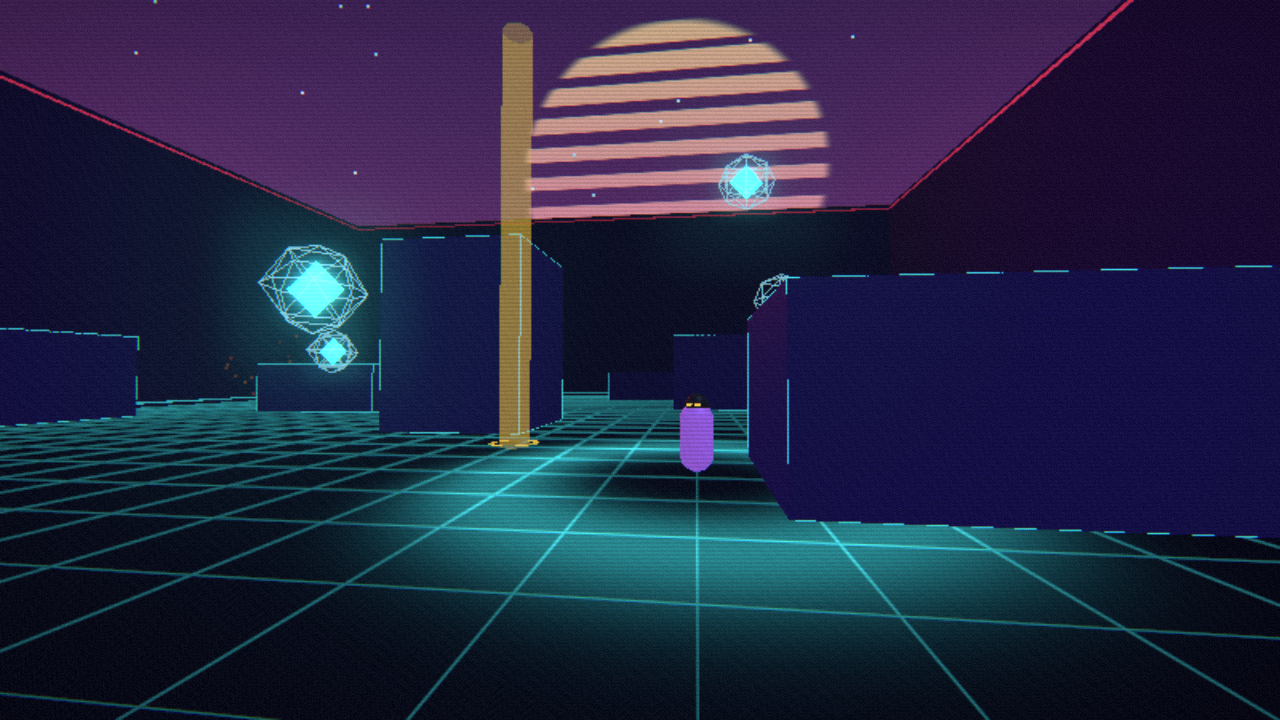
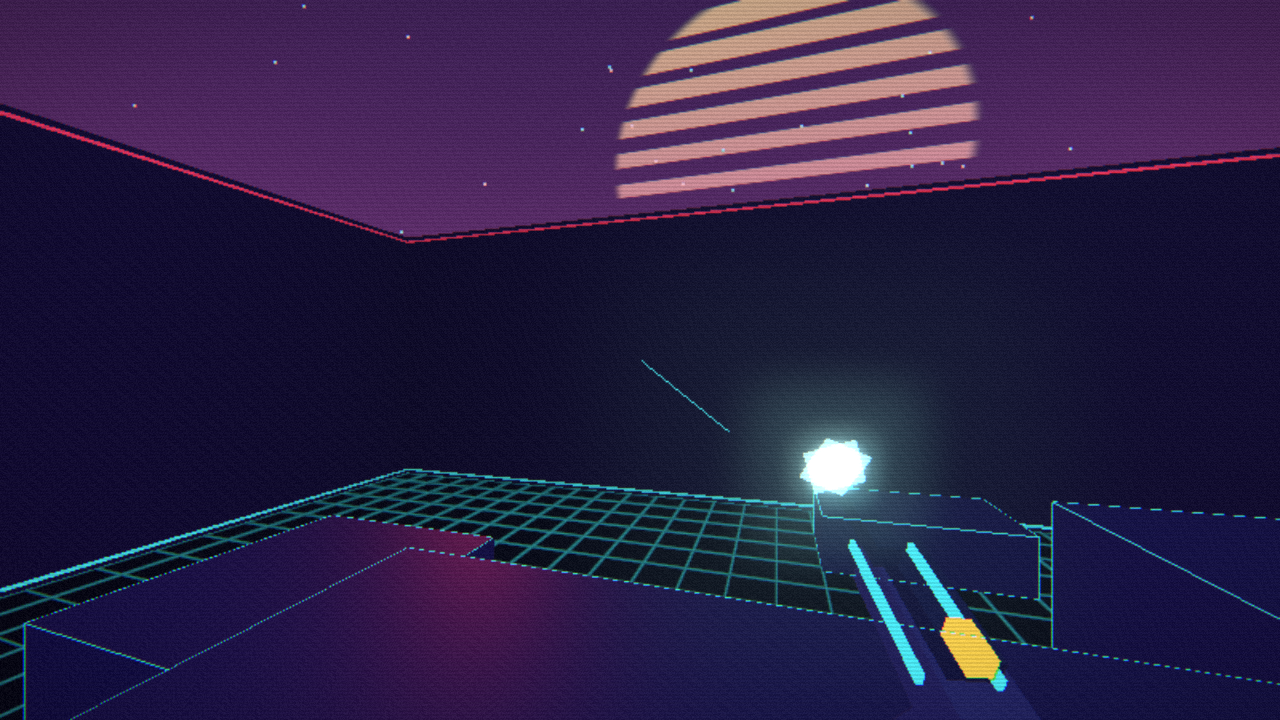
v0.11.0 — Phase B : le personnage (viewmodel) + game feel
- viewmodel.js : blaster neon low-poly accroche a la camera (le personnage
  en 1re personne) — bob de marche, recul au tir, roule complet au swap/echo,
  inclinaison pendant le dash, flash de bouche 2 images ; rendu par-dessus le
  decor (depthTest off, renderOrder 999) comme tout viewmodel FPS
- screenshake leger (tir/degats/swap/dash/kill), decroissant, jamais applique
  a la visee (le tir lit yaw/pitch, pas la rotation camera)
- hitstop : bref ralenti a 15 % (~50-70 ms) sur kill de drone, de bot et de
  joueur distant
- trainee d'etincelles cyan pendant le dash ; tracer aligne sur le canon
- promo : GIF et capture n1 refaits avec l'arme visible

diff --git a/src/viewmodel.js b/src/viewmodel.js
@@ -1,0 +1,109 @@
+import * as THREE from 'three';
+import { PAL } from './fx.js';
+
+// ---------------------------------------------------------------------------
+// Viewmodel : le « personnage » en 1re personne — un blaster néon low-poly
+// accroché à la caméra. Bob de marche, recul au tir, roulé complet au swap,
+// inclinaison pendant le dash, flash de bouche. Aucune physique : pur habillage.
+// ---------------------------------------------------------------------------
+
+const BASE_POS = new THREE.Vector3(0.3, -0.24, -0.55);
+const BASE_ROT = new THREE.Euler(0.03, -0.07, 0);
+const GUN_SCALE = 0.5;   // le modèle est construit « grandeur nature » puis réduit
+
+export function createViewmodel(camera, scene) {
+  scene.add(camera);   // sans ça, les enfants de la caméra ne sont jamais rendus
+
+  const gun = new THREE.Group();
+
+  // plus clair que les plateformes pour ne pas se fondre dedans, et rendu
+  // PAR-DESSUS le décor (depthTest off) comme tout viewmodel FPS
+  const darkMat = new THREE.MeshStandardMaterial({ color: 0x232a55, roughness: 0.4, metalness: 0.5, emissive: 0x2a2470, emissiveIntensity: 0.55, depthTest: false });
+  const ridgeMat = new THREE.MeshStandardMaterial({ color: 0x151a3a, roughness: 0.5, metalness: 0.5, emissive: 0x141048, emissiveIntensity: 0.5, depthTest: false });
+  const cyanMat = new THREE.MeshBasicMaterial({ color: PAL.player, depthTest: false });
+  const echoMat = new THREE.MeshBasicMaterial({ color: PAL.echo, depthTest: false });
+
+  const body = new THREE.Mesh(new THREE.BoxGeometry(0.13, 0.13, 0.4), darkMat);
+  const ridge = new THREE.Mesh(new THREE.BoxGeometry(0.09, 0.05, 0.3), ridgeMat);
+  ridge.position.set(0, 0.08, -0.02);
+  const barrel = new THREE.Mesh(new THREE.BoxGeometry(0.06, 0.06, 0.34), ridgeMat);
+  barrel.position.set(0, 0.02, -0.36);
+  const tip = new THREE.Mesh(new THREE.BoxGeometry(0.08, 0.08, 0.03), cyanMat);
+  tip.position.set(0, 0.02, -0.53);
+  const grip = new THREE.Mesh(new THREE.BoxGeometry(0.1, 0.22, 0.11), darkMat);
+  grip.position.set(0, -0.16, 0.12);
+  grip.rotation.x = 0.35;
+  // liserés néon latéraux + cellule d'énergie jaune (rappel de l'Écho)
+  const stripeL = new THREE.Mesh(new THREE.BoxGeometry(0.012, 0.028, 0.34), cyanMat);
+  stripeL.position.set(-0.072, 0.02, -0.06);
+  const stripeR = stripeL.clone();
+  stripeR.position.x = 0.072;
+  const cell = new THREE.Mesh(new THREE.BoxGeometry(0.045, 0.045, 0.08), echoMat);
+  cell.position.set(0, 0.1, 0.1);
+
+  // flash de bouche : deux plans croisés additifs, visibles ~2 images
+  const flashMat = new THREE.MeshBasicMaterial({
+    color: 0xbdfaff, transparent: true, opacity: 0.85,
+    blending: THREE.AdditiveBlending, depthWrite: false, depthTest: false, side: THREE.DoubleSide,
+  });
+  const flashGeo = new THREE.PlaneGeometry(0.17, 0.17);
+  const flashA = new THREE.Mesh(flashGeo, flashMat);
+  const flashB = new THREE.Mesh(flashGeo, flashMat);
+  flashB.rotation.z = Math.PI / 4;
+  const flash = new THREE.Group();
+  flash.add(flashA, flashB);
+  flash.visible = false;
+
+  flash.position.set(0, 0.02, -0.57);
+  gun.add(body, ridge, barrel, tip, grip, stripeL, stripeR, cell, flash);
+  gun.scale.setScalar(GUN_SCALE);
+  gun.position.copy(BASE_POS);
+  gun.traverse((o) => { o.renderOrder = 999; });
+  camera.add(gun);
+
+  let bobPhase = 0;
+  let bobAmp = 0;
+  let recoil = 0;
+  let spinT = 0;      // 1 → 0 : roulé complet au swap/écho
+  let flashT = 0;
+  let dashLean = 0;
+
+  return {
+    onShoot() {
+      recoil = 1;
+      flashT = 0.045;
+      flash.rotation.z = Math.random() * Math.PI;
+      const s = 0.8 + Math.random() * 0.5;
+      flash.scale.set(s, s, 1);
+    },
+    onSwap() { spinT = 1; },
+    // masqué pendant l'édition de layout tactile / si jamais on veut une option
+    setVisible(v) { gun.visible = v; },
+    update(dt, { speed = 0, onGround = true, dashing = false } = {}) {
+      // bob : l'amplitude suit la vitesse au sol, s'éteint en l'air
+      const moving = onGround && speed > 0.5;
+      bobAmp += ((moving ? Math.min(1, speed / 9) : 0) - bobAmp) * Math.min(1, dt * 8);
+      if (moving) bobPhase += dt * (5 + speed * 0.55);
+      const bobY = Math.sin(bobPhase * 2) * 0.011 * bobAmp;
+      const bobX = Math.cos(bobPhase) * 0.008 * bobAmp;
+
+      recoil = Math.max(0, recoil - dt * 7);
+      spinT = Math.max(0, spinT - dt / 0.38);
+      flashT = Math.max(0, flashT - dt);
+      dashLean += ((dashing ? 1 : 0) - dashLean) * Math.min(1, dt * 10);
+
+      const spin = (1 - spinT * spinT) * Math.PI * 2;   // 0 → 2π, freiné en fin de course
+      gun.position.set(
+        BASE_POS.x + bobX,
+        BASE_POS.y + bobY - recoil * 0.02,
+        BASE_POS.z + recoil * 0.1
+      );
+      gun.rotation.set(
+        BASE_ROT.x + recoil * 0.38 + spin,
+        BASE_ROT.y,
+        BASE_ROT.z - dashLean * 0.16 + bobX * 0.6
+      );
+      flash.visible = flashT > 0;
+    },
+  };
+}

diff --git a/src/main.js b/src/main.js
@@ -2,8 +2,9 @@ import * as THREE from 'three';
 import { Peer } from 'peerjs';
 import '@fontsource/press-start-2p';
 import { PAL, createFX } from './fx.js';
+import { createViewmodel } from './viewmodel.js';
 
-const VERSION = '0.10.0';
+const VERSION = '0.11.0';
 document.addEventListener('DOMContentLoaded', () => { $('version-tag').textContent = 'v' + VERSION; });
 if (document.readyState !== 'loading') setTimeout(() => { $('version-tag').textContent = 'v' + VERSION; }, 0);
 
@@ -381,6 +382,11 @@ for (const [x, z, w, d, top] of PLATFORM_DEFS) {
 fx = createFX(renderer, scene, camera, { arenaHalf: ARENA_HALF, wallHeight: WALL_H, isTouch: IS_TOUCH });
 fx.setQuality(settings.quality);
 
+// le « personnage » : blaster néon en 1re personne + secousses caméra
+const vm = createViewmodel(camera, scene);
+let shake = 0;
+const addShake = (a) => { shake = Math.min(0.5, shake + a); };
+
 // Rayon contre les plateformes (méthode des slabs). Retourne la distance du
 // premier impact, ou Infinity. Sert au clipping des tirs et à la ligne de vue.
 function raycastWorld(origin, dir, maxDist = Infinity) {
@@ -483,6 +489,7 @@ const state = {
   comboTimer: 0,
   waveCooldown: 0,
   time: 0,
+  hitstop: 0,              // ralenti bref au kill (game feel)
   duel: { player: 0, bot: 0 },
 };
 
@@ -679,6 +686,8 @@ function useEcho() {
   addBurst(echo.pos.clone().setY(echo.pos.y + 1.2), PAL.echo);
   fx.wave(echo.pos.x, echo.pos.z, PAL.echo);
   fx.punch(0.8);
+  vm.onSwap();
+  addShake(0.25);
   flashEl.style.opacity = '0.55';
   setTimeout(() => (flashEl.style.opacity = '0'), 70);
   beep({ type: 'sine', from: 250, to: 950, dur: 0.2, gain: 0.15 });
@@ -791,6 +800,8 @@ function damageBot(b, amount, hitPoint) {
     sfx.botDeath(b.pos);
     state.duel.player += 1;
     updateDuelHud();
+    state.hitstop = 0.06;
+    addShake(0.15);
     if (state.duel.player >= DUEL_TARGET) { duelEnd(true); return; }
     createEcho(b.pos);   // 10 s pour décider de voler sa position (E)
   }
@@ -1217,6 +1228,8 @@ document.addEventListener('mousedown', (e) => {
 function shoot() {
   sfx.shoot();
   player.fovPunch = Math.max(player.fovPunch, 0.25);
+  vm.onShoot();
+  addShake(0.05);
 
   const origin = eyePos();
   const dir = new THREE.Vector3(0, 0, -1).applyEuler(new THREE.Euler(player.pitch, player.yaw, 0, 'YXZ'));
@@ -1321,7 +1334,9 @@ function shoot() {
     }
   }
 
-  const muzzle = origin.clone().addScaledVector(dir, 0.8).add(new THREE.Vector3(0, -0.15, 0));
+  // départ visuel du tracer : aligné sur le canon du viewmodel (à droite, sous l'œil)
+  const right = new THREE.Vector3(Math.cos(player.yaw), 0, -Math.sin(player.yaw));
+  const muzzle = origin.clone().addScaledVector(dir, 0.8).addScaledVector(right, 0.16).add(new THREE.Vector3(0, -0.13, 0));
   let shotEnd;
   const nearest = Math.min(botT, droneT, remoteT, remoteEchoT);
   if (nearest === Infinity) {
@@ -1367,6 +1382,9 @@ function doSwap(drone) {
   addBurst(dronePos, PAL.player);
   fx.wave(dronePos.x, dronePos.z, PAL.player);
   fx.punch(1);
+  vm.onSwap();
+  addShake(0.3);
+  state.hitstop = 0.05;
 
   // score/combo : modes vagues et swap-only (en duel, le swap est de la mobilité)
   if (!isDuel()) {
@@ -1423,6 +1441,7 @@ function hurtPlayer(amount, sourcePos = null) {
   hurtEl.style.opacity = '1';
   setTimeout(() => (hurtEl.style.opacity = '0'), 150);
   sfx.hurt();
+  addShake(0.18);
   if (sourcePos) addDmgIndicator(sourcePos);
   if (player.hp <= 0) {
     player.hp = 0;
@@ -1720,6 +1739,7 @@ function updatePlayer(dt) {
     player.dashDir = flat.lengthSq() > 1e-4 ? flat.normalize() : null;
     player.fovPunch = Math.max(player.fovPunch, 0.6);
     fx.punch(0.35);
+    addShake(0.12);
     addBurst(new THREE.Vector3(player.pos.x, player.pos.y + 0.8, player.pos.z), PAL.player, 12);
     beep({ type: 'sawtooth', from: 320, to: 70, dur: 0.16, gain: 0.11 });
   }
@@ -1729,6 +1749,11 @@ function updatePlayer(dt) {
 
   const wasGround = player.onGround;
   moveBody(player, wish, jumpHeld, dt, player.dashTime > 0 ? DASH_SPEED : MOVE_SPEED);
+
+  // traînée du dash : petites étincelles cyan semées sur le trajet
+  if (player.dashTime > 0 && Math.random() < 0.7) {
+    addBurst(new THREE.Vector3(player.pos.x, player.pos.y + 0.9, player.pos.z), PAL.player, 3);
+  }
 
   if (player.onGround) {
     player.airJumps = 1;
@@ -1749,6 +1774,14 @@ function updatePlayer(dt) {
 
   camera.position.copy(eyePos());
   camera.rotation.set(player.pitch, player.yaw, 0, 'YXZ');
+  // screenshake : offsets aléatoires décroissants, jamais appliqués à la visée
+  // (le tir lit player.yaw/pitch, pas la rotation caméra)
+  if (shake > 0) {
+    camera.rotation.x += (Math.random() - 0.5) * shake * 0.05;
+    camera.rotation.z += (Math.random() - 0.5) * shake * 0.07;
+    shake = Math.max(0, shake - dt * 2.2);
+  }
+  vm.update(dt, { speed: Math.hypot(player.vel.x, player.vel.z), onGround: player.onGround, dashing: player.dashTime > 0 });
   player.fovPunch = Math.max(0, player.fovPunch - dt * 3.5);
   camera.fov = settings.fov + player.fovPunch * 18;
   camera.updateProjectionMatrix();
@@ -2147,7 +2180,11 @@ function onNetData(msg, conn) {
       sfx.botDeath(pos);
       if (net.score.me >= winTarget()) { duelEnd(true); break; }
       if (net.score.them >= winTarget()) { duelEnd(false); break; }
-      if (killer === net.slot) createEcho(pos);
+      if (killer === net.slot) {
+        state.hitstop = 0.06;
+        addShake(0.15);
+        createEcho(pos);
+      }
       break;
     }
     case 'dk': { // il a consommé un drone (= il vient de swap dessus)
@@ -2256,6 +2293,11 @@ $('multi-code').addEventListener('keydown', (e) => e.stopPropagation());
 const clock = new THREE.Clock();
 function step(dt) {
   if (state.phase === 'playing') {
+    // hitstop : bref ralenti (15 % de la vitesse) après un kill
+    if (state.hitstop > 0) {
+      state.hitstop = Math.max(0, state.hitstop - dt);
+      dt *= 0.15;
+    }
     state.time += dt;
     updatePlayer(dt);
     updateEnemies(dt);

diff --git a/promo/PAGE-ITCH.md b/promo/PAGE-ITCH.md
@@ -7,8 +7,8 @@ Tout est prêt à copier-coller dans **Edit game** sur https://niocecream.itch.i
 | Fichier | Où le mettre |
 |---|---|
 | `cover-630x500.png` | Cover image (vignette du jeu) |
-| `swap-gameplay.gif` | **1re position des screenshots** (un GIF en tête = le gameplay bouge dès qu'on arrive) |
-| `screenshot-1-action.png` → `4-mobile.png` | Screenshots, dans cet ordre |
+| `swap-gameplay.gif` | **1re position des screenshots** (un GIF en tête = le gameplay bouge dès qu'on arrive ; version avec le blaster viewmodel) |
+| `screenshot-1-action.png` → `5-scene.png` | Screenshots, dans cet ordre (1 = vue joueur avec l'arme et le flash de tir) |
 
 ## 2. Tagline (champ « Short description »)
 